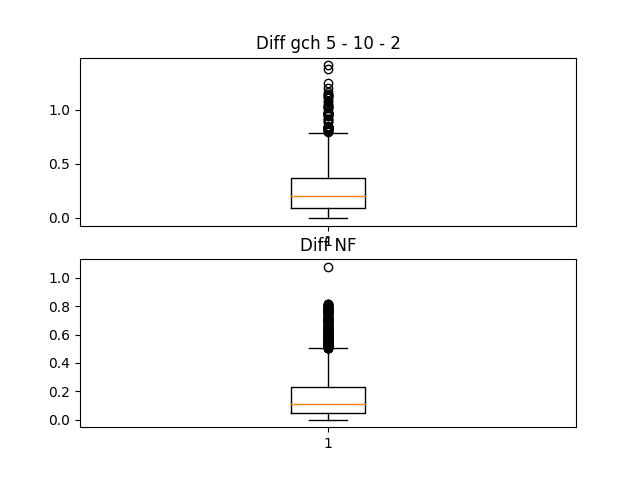
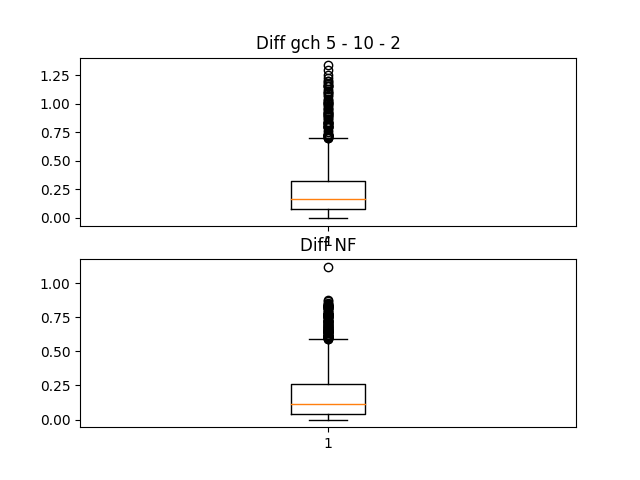
Consertando a troca de min por max

diff --git a/adaptacao/withboxplot.py b/adaptacao/withboxplot.py
@@ -5,7 +5,7 @@ from keras.models import Sequential
 from keras.layers import Dense
 from random import randint 
 
-def unnormalization(x, min, max, range_a, range_b):
+def unnormalization(x, max, min, range_a, range_b):
     z = []
     for i in range(0, len(x)):
         j = ((float(x[i]) - float(range_a))*(float(max)-float(min)))/ (float(range_b) - float(range_a)) + float(min)
@@ -64,8 +64,8 @@ test_y = np.array(array_yt)
 
 model = Sequential()
 
-model.add(Dense(7, input_dim=3, activation='sigmoid'))
-model.add(Dense(15, activation='sigmoid'))
+model.add(Dense(5, input_dim=3, activation='sigmoid'))
+model.add(Dense(10, activation='sigmoid'))
 model.add(Dense(2, activation ='sigmoid'))
 
 print(model.summary())
@@ -119,7 +119,7 @@ for i in range(0, len(gch_test)):
 
 plt.subplot(211)
 plt.boxplot(diff_gch)
-plt.title('Diff gch 7 - 15 - 2')
+plt.title('Diff gch 5 - 10 - 2')
 plt.subplot(212)
 plt.boxplot(diff_nf)
 plt.title('Diff NF')

diff --git a/adaptacao/testunnormalizing.py b/adaptacao/testunnormalizing.py
@@ -1,0 +1,23 @@
+def unnormalization(x, max, min, range_a, range_b):
+    z = []
+    for i in range(0, len(x)):
+        j = ((float(x[i]) - float(range_a))*(float(max)-float(min)))/ (float(range_b) - float(range_a)) + float(min)
+        z.append(j)
+    return z
+def normalization(x, min, max, range_a, range_b):
+	
+	z = ( (float(range_b) - float(range_a)) * ( (x - float(min))/(float(max) - float(min)) ) ) + float(range_a)
+	return z
+
+x = [20, 30]
+
+max = 45
+min = 12
+range_a = 0.15
+range_b = 0.85
+
+x_ = [normalization(x[0], min, max, range_a, range_b), normalization(x[1], min, max, range_a, range_b)]
+
+y = unnormalization(x_, max, min, range_a, range_b)
+
+print(x, y)	    
